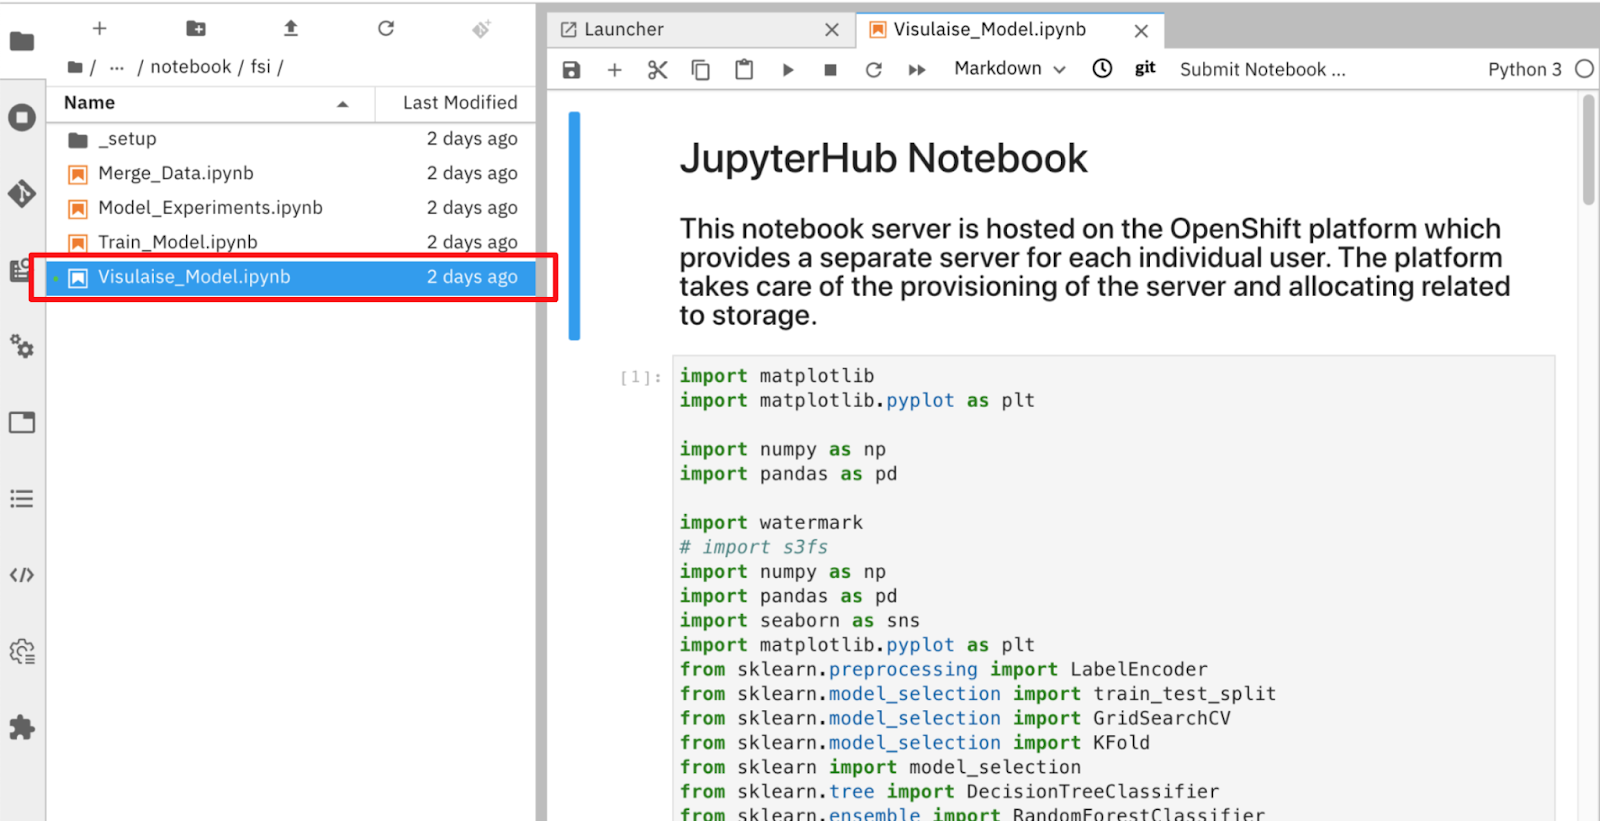
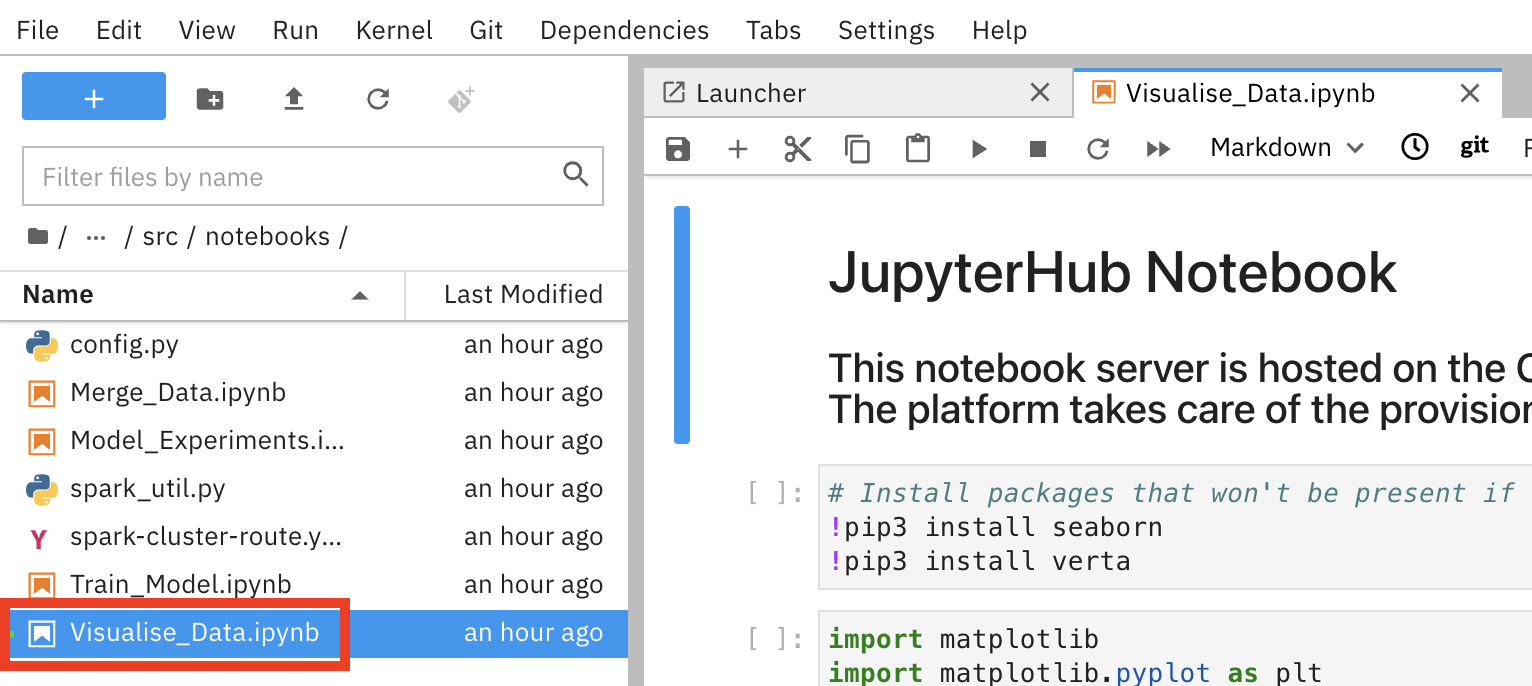
Fixing screenshots and docs generally

Changed region(s): [[0.0, 0.0, 1.0, 1.0], [0.9817, 0.8571, 1.0, 0.9184], [0.2454, 0.4592, 0.2761, 0.4898]]

diff --git a/docs/lab2-data-science.md b/docs/lab2-data-science.md
@@ -62,14 +62,12 @@ Our workflow has created this file - and as such allows eaiser collaboration and
 Now to our Data Science focused Jupyter notebooks. As we did with Minio, we will find the url for Jupyterhub within the routes of the OpenShift console.
 
 
-
 1. Open the browser tab with the OpenShift console.
 2. Open the **Administrator perspective**.
 3. Click **Networking > Routes**. 
 4. Type **Jupyterhub** in the **Filter** text box.
 
 OpenShift reduces the list of routes as you type the filter.
-
 
 
 5. Click the Jupyterhub link in the **Location** column of the **Routes** display. 
@@ -103,7 +101,7 @@ Observe:
 * The same _ml-workshop_ folder we previously pulled down from our GitHub repository \
 git clone [https://github.com/odh-labs/ml-workshop](https://github.com/odh-labs/ml-workshop) 
 
-Now to run your first notebook, double click the file **Visulaise_Data.ipynb** as shown
+Now to run your first data science notebook, navigate to ml-workshop/src/notebooks/ and open Visualise_Data.ipynb
 
 <img src="./images/lab2-data-science/ds-visualise-data-1.png " alt="drawing" width="500"/> 
 
